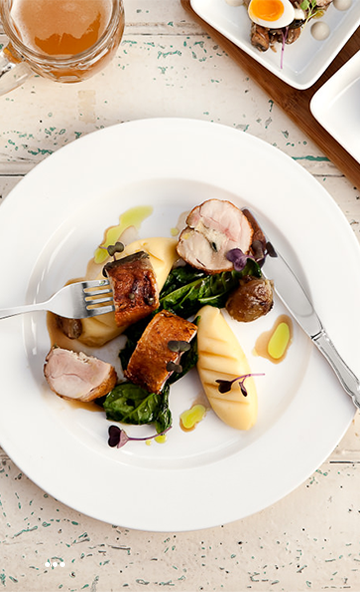
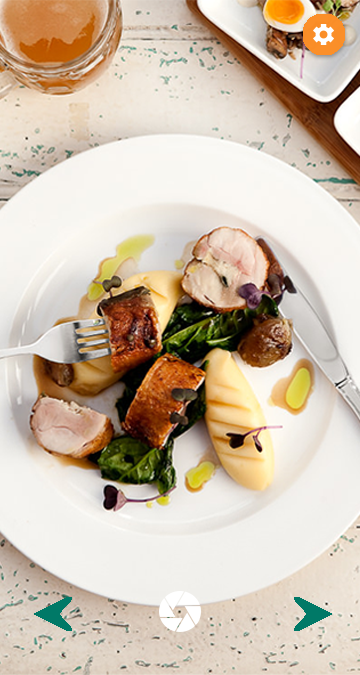
fix minor bugs

diff --git a/www/templates/wishlist.html b/www/templates/wishlist.html
@@ -1,4 +1,4 @@
-<ion-view pukimak on-swipe-right="expenses()" on-swipe-left="analyze()" style="background: none;">
+<ion-view on-swipe-right="expenses()" on-swipe-left="analyze()" style="background: none;" pukimak>
   <!--<ion-header-bar class="bar-positive orange-bar">-->
   <!--<div class="buttons">-->
   <!--<button class="arrowanalyze" ng-click="onSwipeRightAnalyze()"></button>-->
@@ -41,16 +41,17 @@
       </ion-popover-view>
     </script>
     <ion-list>
-      <ion-item class="imgwishlist"> <!--class="item-thumbnail-left"-->
+      <ion-item class="imgwishlist" id = "item1" ng-click="insert('item1')"> <!--class="item-thumbnail-left"-->
+        <img src="img/cancel.png"/>
       </ion-item>
-      <!--<img src="img/detailwishlist.png" class="wishlistdetail">-->
-      <ion-item class="imgwishlist"> <!--class="item-thumbnail-left"-->
+
+      <ion-item class="imgwishlist1"  id = "item2" ng-click="insert('item2')"> <!--class="item-thumbnail-left"-->
       </ion-item>
-      <ion-item class="imgwishlist"> <!--class="item-thumbnail-left"-->
+      <ion-item class="imgwishlist2"  id = "item3" ng-click="insert('item3')"> <!--class="item-thumbnail-left"-->
       </ion-item>
-      <ion-item class="imgwishlist"> <!--class="item-thumbnail-left"-->
+      <ion-item class="imgwishlist"  id = "item4" ng-click="insert('item4')" > <!--class="item-thumbnail-left"-->
       </ion-item>
     </ion-list>
-    <div class="button button-add-wishlist" ng-click="addwishlist()" resize-go ng-style="{{style()}}" style="top : {{top1}}px; right: {{right1}}px"></div>
+    <div class="button button-add-wishlist" ng-click="addwishlist()" resize-go resize style="top : {{top1}}px; right: {{right1}}px"></div>
   </ion-content>
 </ion-view>

diff --git a/www/css/style.css b/www/css/style.css
@@ -90,6 +90,14 @@
   font-size: 19px;
   font-weight: bold;
 }
+.button-settings {
+  min-width: 42px;
+  min-height: 42px;
+  border-radius: 50%;
+  background: url('../img/setting.png') no-repeat;
+  position: fixed;
+  z-index: 999;
+}
 
 .button-go-left {
   min-width: 39px;
@@ -225,6 +233,20 @@
   width: 100%
 }
 
+.imgwishlist1 {
+  background: url('../img/newyork.png') no-repeat;
+  height: 170px;
+  width: 100%
+}
+
+
+.imgwishlist2 {
+  background: url('../img/canada.png') no-repeat;
+  height: 203px;
+  width: 100%
+}
+
+
 .addwishlist {
   background: url('../img/addwishlist.png') no-repeat;
   height: 203px;
@@ -252,6 +274,16 @@
 }
 .categories-entertainment {
   background: url('../img/entertainment.png') no-repeat;
+  height: 40px;
+  width: 51px;
+  margin-left: -47px;
+  z-index: 999;
+  position: absolute;
+  margin-top: -9px;
+}
+
+.categories-transportation {
+  background: url('../img/transportation.png') no-repeat;
   height: 40px;
   width: 51px;
   margin-left: -47px;

diff --git a/www/templates/snap.html b/www/templates/snap.html
@@ -5,6 +5,7 @@
         <input type="number" placeholder="Input price" id = "inputprice" class="input-price">
       </label>
     </div>
+    <div class="button button-settings" ng-hide = "showinput" ng-click="budget()" resize ng-style="{{style()}}" style="top : {{settingtop}}px; right: {{settingright}}px"></div>
     <div class="button button-go-left" ng-hide = "showinput" ng-click="analyze()" resize ng-style="{{style()}}" style="top : {{top2}}px; right: {{right2}}px"></div>
     <div class="button button-snap" ng-click="getPhoto()" resize ng-style="{{style()}}" style="top : {{top}}px; right: {{right}}px"></div>
     <div class="button button-go-right" ng-hide = "showinput" ng-click="expenses()" resize-go ng-style="{{style()}}" style="top : {{top3}}px; right: {{right3}}px"></div>

diff --git a/www/templates/categories.html b/www/templates/categories.html
@@ -74,7 +74,15 @@
         </div>
         <i class="radio-icon ion-checkmark"></i>
       </label>
+      <label class="item item-radio">
+        <input type="radio" name="group">
+        <div class="item item-icon-left">
+          <div class="categories-transportation"></div>
+          Transportation
+        </div>
+        <i class="radio-icon ion-checkmark"></i>
+      </label>
     </div>
-    <div class="button button-go" ng-click="reminder()" resize-go ng-style="{{style()}}" style="top : {{top1}}px; right: {{right1}}px"></div>
+    <div class="button button-go" ng-click="reminder()" resize-go resize ng-style="{{style()}}" style="top : {{top1}}px; right: {{right1}}px"></div>
   </ion-content>
 </ion-view>

diff --git a/www/templates/expenses.html b/www/templates/expenses.html
@@ -56,6 +56,13 @@
           Groceries
         </div>
       </label>
+      <label class="item item-radio" ng-click="expand('expenses6')" id="expenses6">
+        <input type="radio" name="group">
+        <div class="item item-icon-left">
+          <div class="categories-transportation"></div>
+          Transportation
+        </div>
+      </label>
     </div>
   </ion-content>
 </ion-view>

diff --git a/www/js/controllers.js b/www/js/controllers.js
@@ -139,6 +139,14 @@ angular.module('starter.controllers', [])
     $scope.popover = popover;
   });
 
+  $scope.insert = function(id) {
+    if ($('#'+id).next().is('img')) {
+      $('#'+id).next().remove()
+    } else {
+      $('<img src="img/detailwishlist.png" class="wishlistdetail">').insertAfter($('#'+id));
+    }
+  }
+
   $scope.expenses = function(){
     $state.go('expenses');
   }

diff --git a/www/js/directive.js b/www/js/directive.js
@@ -38,6 +38,10 @@ angular.module('starter.directives', [])
 
       scope.top1 = newValue.h *0.875;
       scope.right1 = newValue.w*0.05;
+
+      scope.settingtop = newValue.h * 0.075;
+      scope.settingright = newValue.w * 0.08;
+
       scope.style = function () {
 
       };
